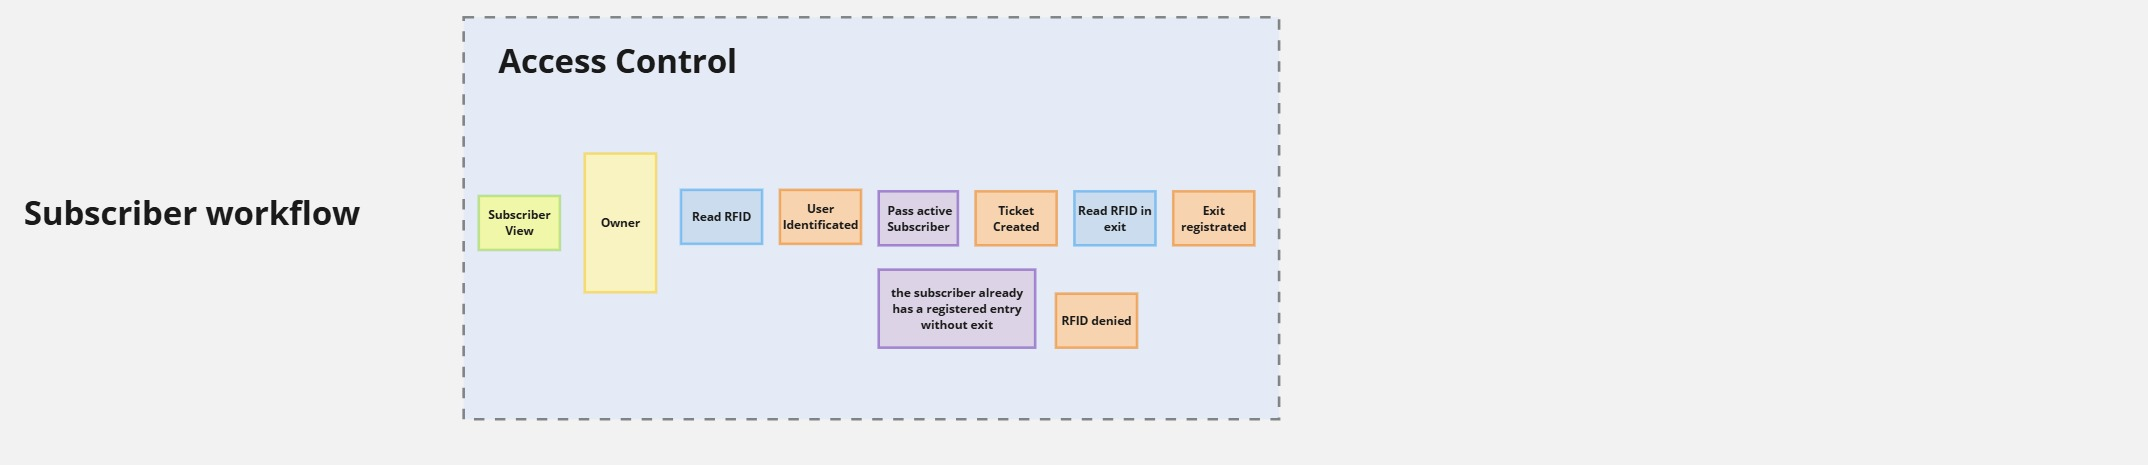
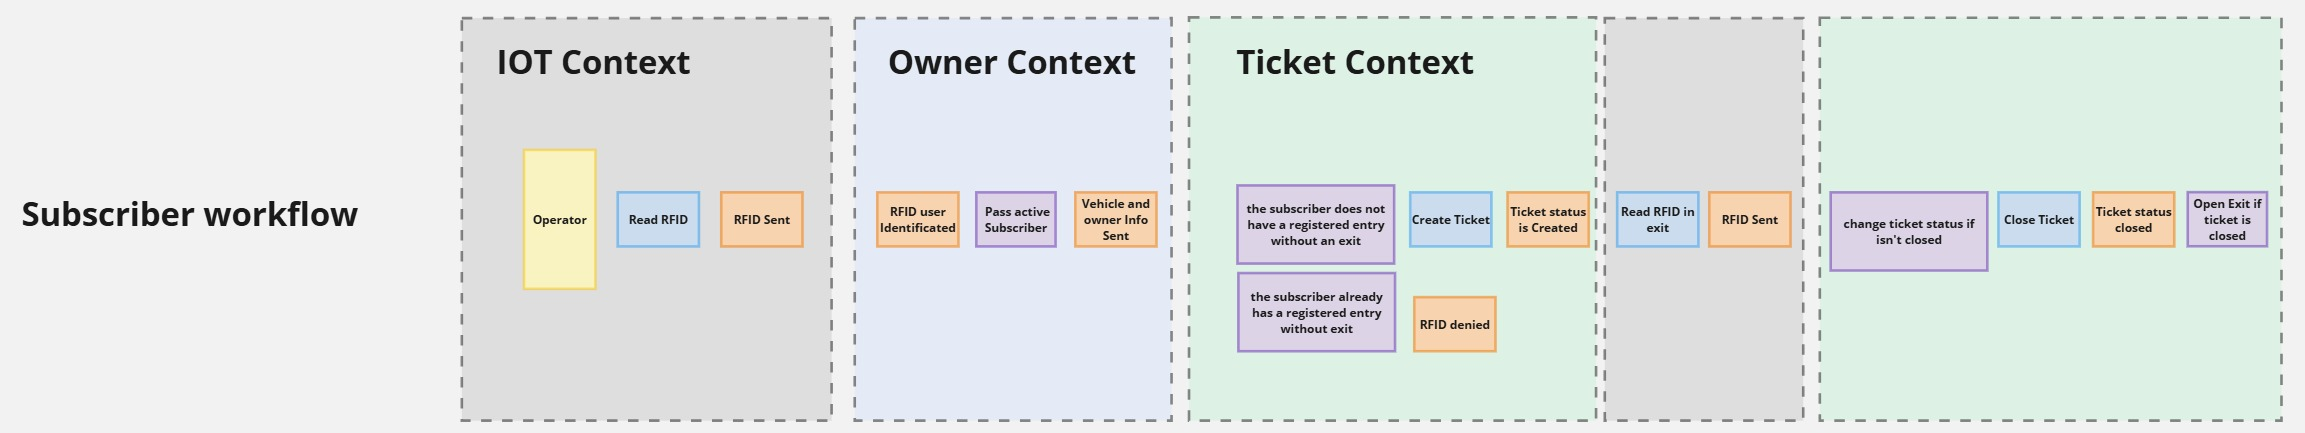
DOCS: Update big picture

diff --git a/README.md b/README.md
@@ -60,11 +60,30 @@ Breaks down the system into its main modules:
 
 ## 4. Process Discovery
 
+As an initial step, I decided to understand a little more about the business domain using event storming. Through the big picture, some information that was hidden in the process was made explicit. I continued to initially place the relevant events, organized them chronologically, associated them with actions and then with the responsible actors, and if it made sense, I also associated a reading model.
+
 ![Event Storming_parte1](https://github.com/carlossfb/NeoParking-DDD/blob/main/docs/graph/temporary_clients.jpg)
 
 ![Event Storming_parte2](https://github.com/carlossfb/NeoParking-DDD/blob/main/docs/graph/creating_subscriber.jpg)
 
 ![Event Storming_parte3](https://github.com/carlossfb/NeoParking-DDD/blob/main/docs/graph/subscriber_workflow.jpg)
+
+
+Termos que foram usados no decorrer das discussões:
+
+- Operator
+The entity responsible for managing the entire parking system. The operator configures operational rules, monitors the system, manages pricing policies, handles audits, and ensures that the infrastructure and services are functioning properly.
+- Owner
+A customer who owns a vehicle and has the right to use the parking service. The owner can be either a casual user (pay-per-use) or a registered subscriber. An owner is associated with tickets, payments, and possibly identification methods like RFID.
+- Subscriber
+A special type of owner with an active subscription plan (e.g., monthly pass). Subscribers typically have extended privileges such as automated entry and exit via RFID, and are not charged per visit but through a recurring fee.
+- Ticket
+A representation of a parking session. It includes information such as entry time, vehicle identification, and assigned parking area. Tickets can be physical (e.g., printed with a QR code) or digital, and are used for validating entry, exit, and fee calculation.
+- Fee
+The monetary charge applied to a parking session. The fee is usually calculated based on duration, but may also include special pricing rules, grace periods, or penalties. It determines what the owner must pay before exit is authorized.
+- RFID
+A Radio Frequency Identification tag assigned to a vehicle or user. RFID allows for automated access control by enabling the system to detect and identify subscribers or authorized vehicles at entry and exit points without manual intervention.
+
 
 ---
 
